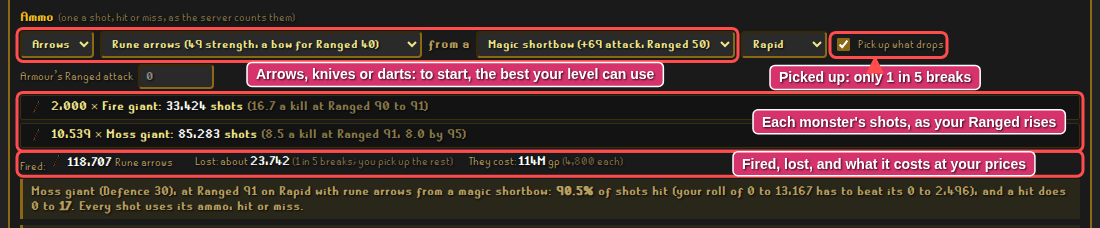
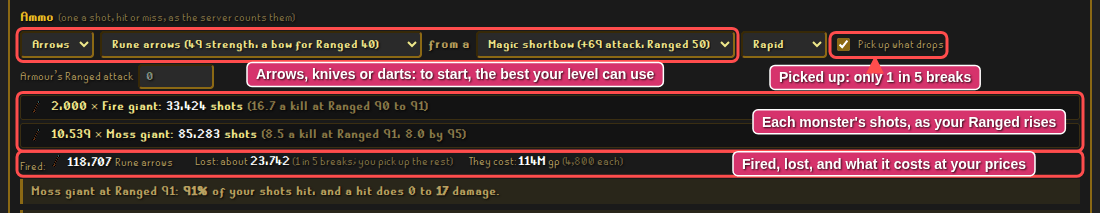
v3.4.1

diff --git a/planner-ui.js b/planner-ui.js
@@ -2082,6 +2082,8 @@ export function createPlanner(ctx) {
   // "Rune arrows", "Rune knives"
   const ammoName = (slug, n = 2) => { const name = ITEMS[slug]?.name || slug; return n === 1 ? name : `${name.replace(/knife$/i, 'knive')}s`; };
   const shotsText = v => (v >= 100 ? fmt(Math.round(v)) : v.toFixed(1));
+  // (v3.4.1) a chance in whole percents: 99% rather than 100% for one that isn't sure, and none rounded to 0%
+  const hitPct = p => { const r = Math.round(p * 100); return r >= 100 && p < 1 ? '99%' : r <= 0 && p > 0 ? 'under 1%' : `${r}%`; };
   const STYLE_NAME = { rapid: 'Rapid', accurate: 'Accurate', longrange: 'Longrange' };
 
   function ammoHtml(goal, plan, ix, cur) {
@@ -2138,13 +2140,15 @@ export function createPlanner(ctx) {
         <span>${pickUp ? `Lost: about <b>${fmt(lost)}</b> <span class="c-faint">(1 in ${BREAKS} breaks; you pick up the rest)</span>` : `Lost: all <b>${fmt(lost)}</b> <span class="c-faint">(not picked up)</span>`}</span>
         <span>They cost: <b>${p == null ? '?' : gpShort(lost * p)}</b> gp${p == null ? '' : ` <span class="c-faint">(${gpShort(p)} each)</span>`}</span>
       </div>`;
-    // The server's numbers for the monster most of the shots go to, at your Ranged level now
+    // (v3.4.1: one short line) How often you hit the monster most of the shots go to, at the Ranged level its
+    // kills start at, and how hard. The server's numbers behind it, the two rolls, are its tooltip.
     const main = lines.filter(l => l.shots !== Infinity).sort((x, y) => y.shots - x.shots)[0];
     let tip = '';
     if (main) {
       const k = killAt(main.mon, Math.min(main.from, 99), { style, gear, bonus });
       const with_ = gear.kind === 'arrows' ? `${ammoName(gear.ammo).toLowerCase()} from ${aWord(ITEMS[gear.bow]?.name || '')} ${(ITEMS[gear.bow]?.name || '').toLowerCase()}` : ammoName(gear.ammo).toLowerCase();
-      tip = `<div class="tip"><span>${esc(main.m.short)} (Defence ${main.mon.defence}${main.mon.rangeDefence ? `, ranged defence ${main.mon.rangeDefence > 0 ? '+' : ''}${main.mon.rangeDefence}` : ''}), at Ranged ${main.from} on ${STYLE_NAME[style]} with ${with_}${bonus ? ` and ${bonus > 0 ? '+' : ''}${bonus} from your armour` : ''}: <b>${Math.round(k.hit * 1000) / 10}%</b> of shots hit (your roll of 0 to ${fmt(k.attack)} has to beat its 0 to ${fmt(k.defence)}), and a hit does 0 to <b>${k.max}</b>. Every shot uses its ammo, hit or miss.</span></div>`;
+      const how = `${main.m.short} (Defence ${main.mon.defence}${main.mon.rangeDefence ? `, ranged defence ${main.mon.rangeDefence > 0 ? '+' : ''}${main.mon.rangeDefence}` : ''}), at Ranged ${main.from} on ${STYLE_NAME[style]} with ${with_}${bonus ? ` and ${bonus > 0 ? '+' : ''}${bonus} from your armour` : ''}: your roll of 0 to ${fmt(k.attack)} has to beat its 0 to ${fmt(k.defence)}, ${Math.round(k.hit * 1000) / 10}% of the time, and a hit does 0 to ${k.max} damage, each as likely.`;
+      tip = `<div class="tip" title="${esc(how)}"><span>${esc(main.m.short)} at Ranged ${main.from}: <b>${hitPct(k.hit)}</b> of your shots hit, and a hit does 0 to <b>${k.max}</b> damage.</span></div>`;
     }
     return `<div class="plan-sec ammo"><h4>Ammo <span class="c-faint small-note">(one a shot, hit or miss, as the server counts them)</span></h4>
       ${picks}${warn.map(w => `<div class="c-lose small-note ammo-warn">${w}</div>`).join('')}

diff --git a/npc-ui.js b/npc-ui.js
@@ -1144,9 +1144,10 @@ export function createNpcUi(P) {
     const rare = [...drops].filter(([s, d]) => d.p < 1 && d.p > 0 && taken(goal, s));
     if (!rare.length) return '';
     const pick = dryPick.get(goal.id) || {};
-    // (the rarest drop worth the most, to start with)
+    // (the drop you picked last, kept with the goal (v3.4.1); till you pick one, the rarest drop worth the most)
     const start = rare.map(([s, d]) => [s, d, (worthOf(s) || 0) * d.q]).sort((a, b) => b[2] - a[2] || a[1].p - b[1].p)[0][0];
-    const slug = drops.has(pick.item) && drops.get(pick.item).p < 1 ? pick.item : start;
+    const item = pick.item ?? goal.dryItem;
+    const slug = rare.some(([s]) => s === item) ? item : start;
     const d = drops.get(slug);
     const k = pick.kills ?? (goal.done && !(goal.got?.[slug] > 0) ? goal.done : Math.round(1 / d.p) * 2);
     const sentence = k > 0 ? drySentence(ITEMS[slug]?.name || slug, d.p, k) : '';
@@ -1615,7 +1616,13 @@ export function createNpcUi(P) {
       P.entered(P.renderGoals);
       return true;
     }
-    if (t.dataset.dryItem) { dryPick.set(goal.id, { item: t.value }); P.renderGoals(); return true; }
+    if (t.dataset.dryItem) {
+      // (v3.4.1: kept with the goal, so it's still the one picked after a reload; the kills go back to their own)
+      dryPick.set(goal.id, { item: t.value });
+      P.updateGoal(goal.id, g => { g.dryItem = t.value; });
+      P.renderGoals();
+      return true;
+    }
     if (t.dataset.dryKills) {
       const n = P.parseAmount(t.value);
       if (n == null) { t.classList.add('bad'); return true; }

diff --git a/app.js b/app.js
@@ -15,7 +15,7 @@ import { createPlanner } from './planner-ui.js';
 import { sortable } from './sortable.js';
 import { tableScrolls, restoreTableScrolls } from './tablesort.js';
 
-const VERSION = '3.4.0';
+const VERSION = '3.4.1';
 const MAX_COMPARE = 5;
 
 // How to reach the API:

diff --git a/README.md b/README.md
@@ -294,7 +294,7 @@ use. Then Rapid or Accurate, whether you **pick up what drops**, and your armour
 - **Shots**: each shot is a roll, your attack against the monster's defence, and a hit does 0 to
   your max hit, so a kill takes as many shots as its hitpoints need on average. They're counted a
   level at a time as your Ranged rises, and the plan's table has a **Shots** column: a kill at your
-  level now.
+  level now. The last line says how often you hit and how hard (hover it for the server's numbers).
 - **Fired, lost and what it costs**: every shot uses one, hit or miss. 1 in 5 breaks and the rest
   drop where the monster stands, so picking them up loses a fifth; leaving them loses them all.
 - **Which kind?** It matters: arrows hit hardest, their strength the arrow's and their attack the
@@ -409,7 +409,7 @@ rates; the Coins line keeps only what was dropped.*
 
 A drop of 1/128 and 200 kills without it is 1.56 × the drop rate, and more to the point: **going
 that dry happens to 21% of players**, about 1 in 5. Half of players have one by 89 kills, and 9 in
-10 by 294.
+10 by 294. Each goal keeps the drop you picked last.
 
 ## Useful tips
 
